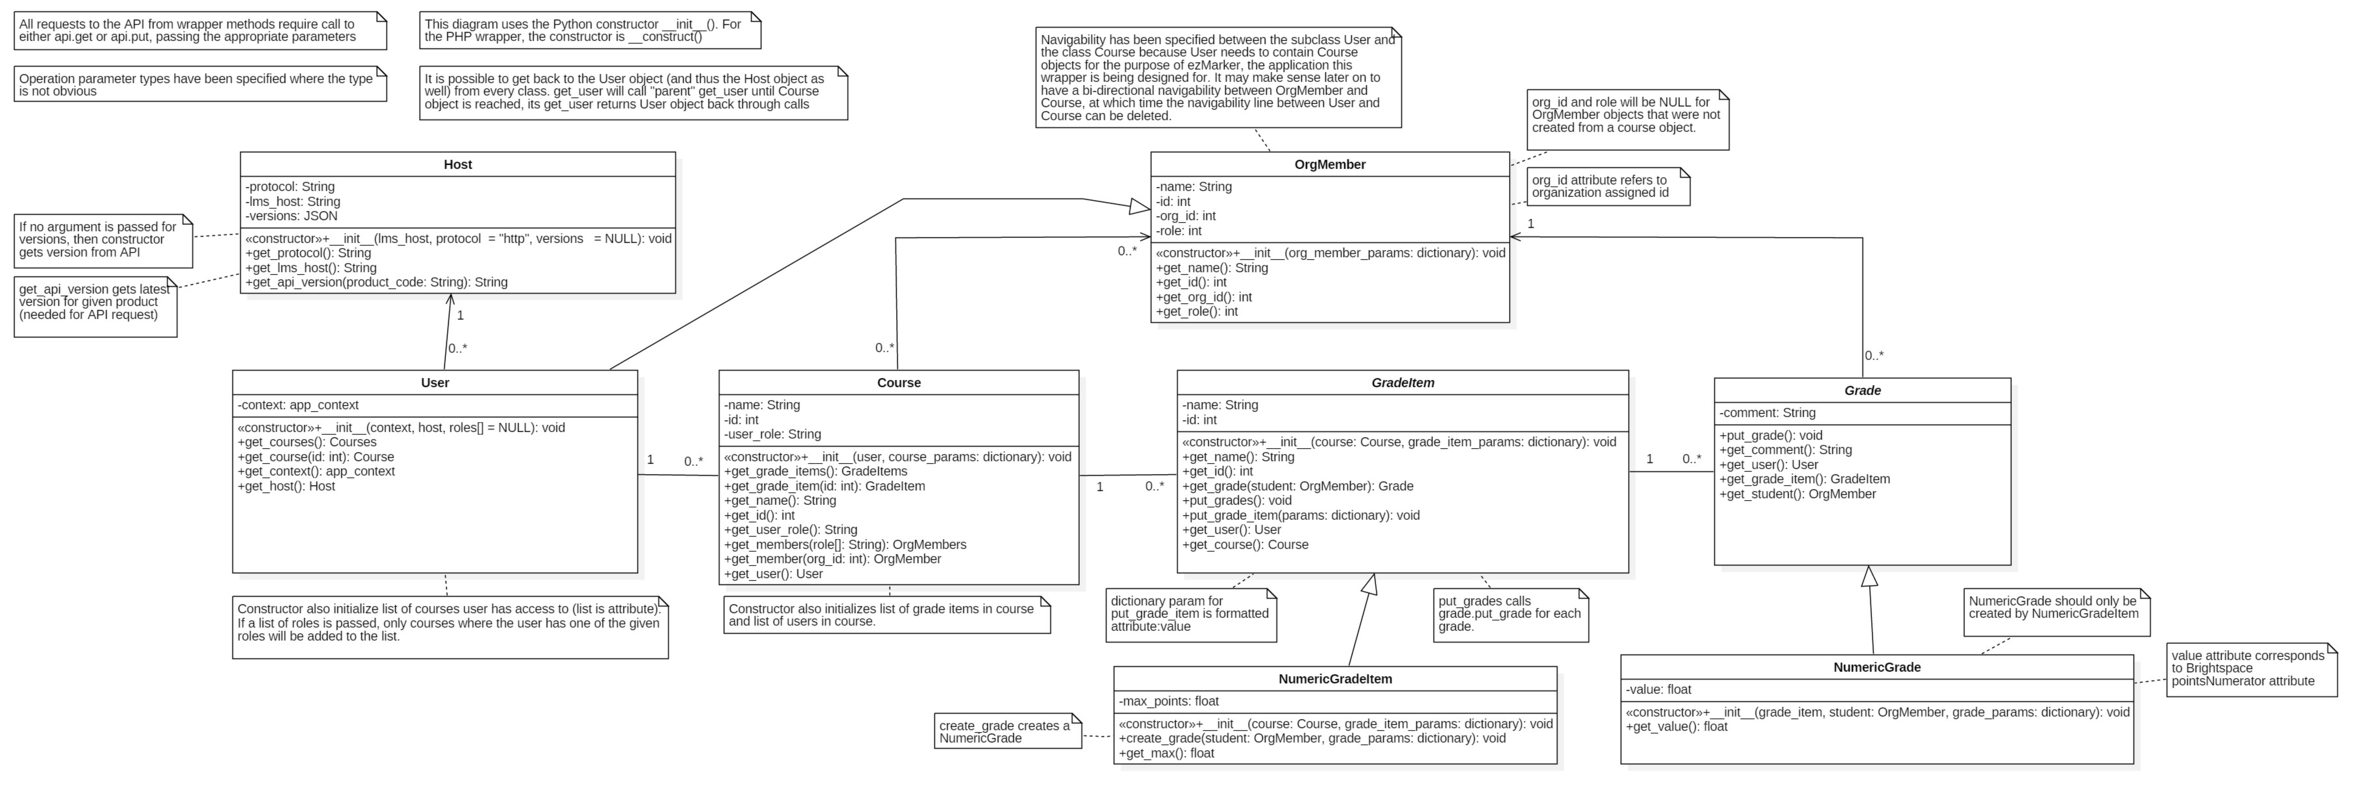
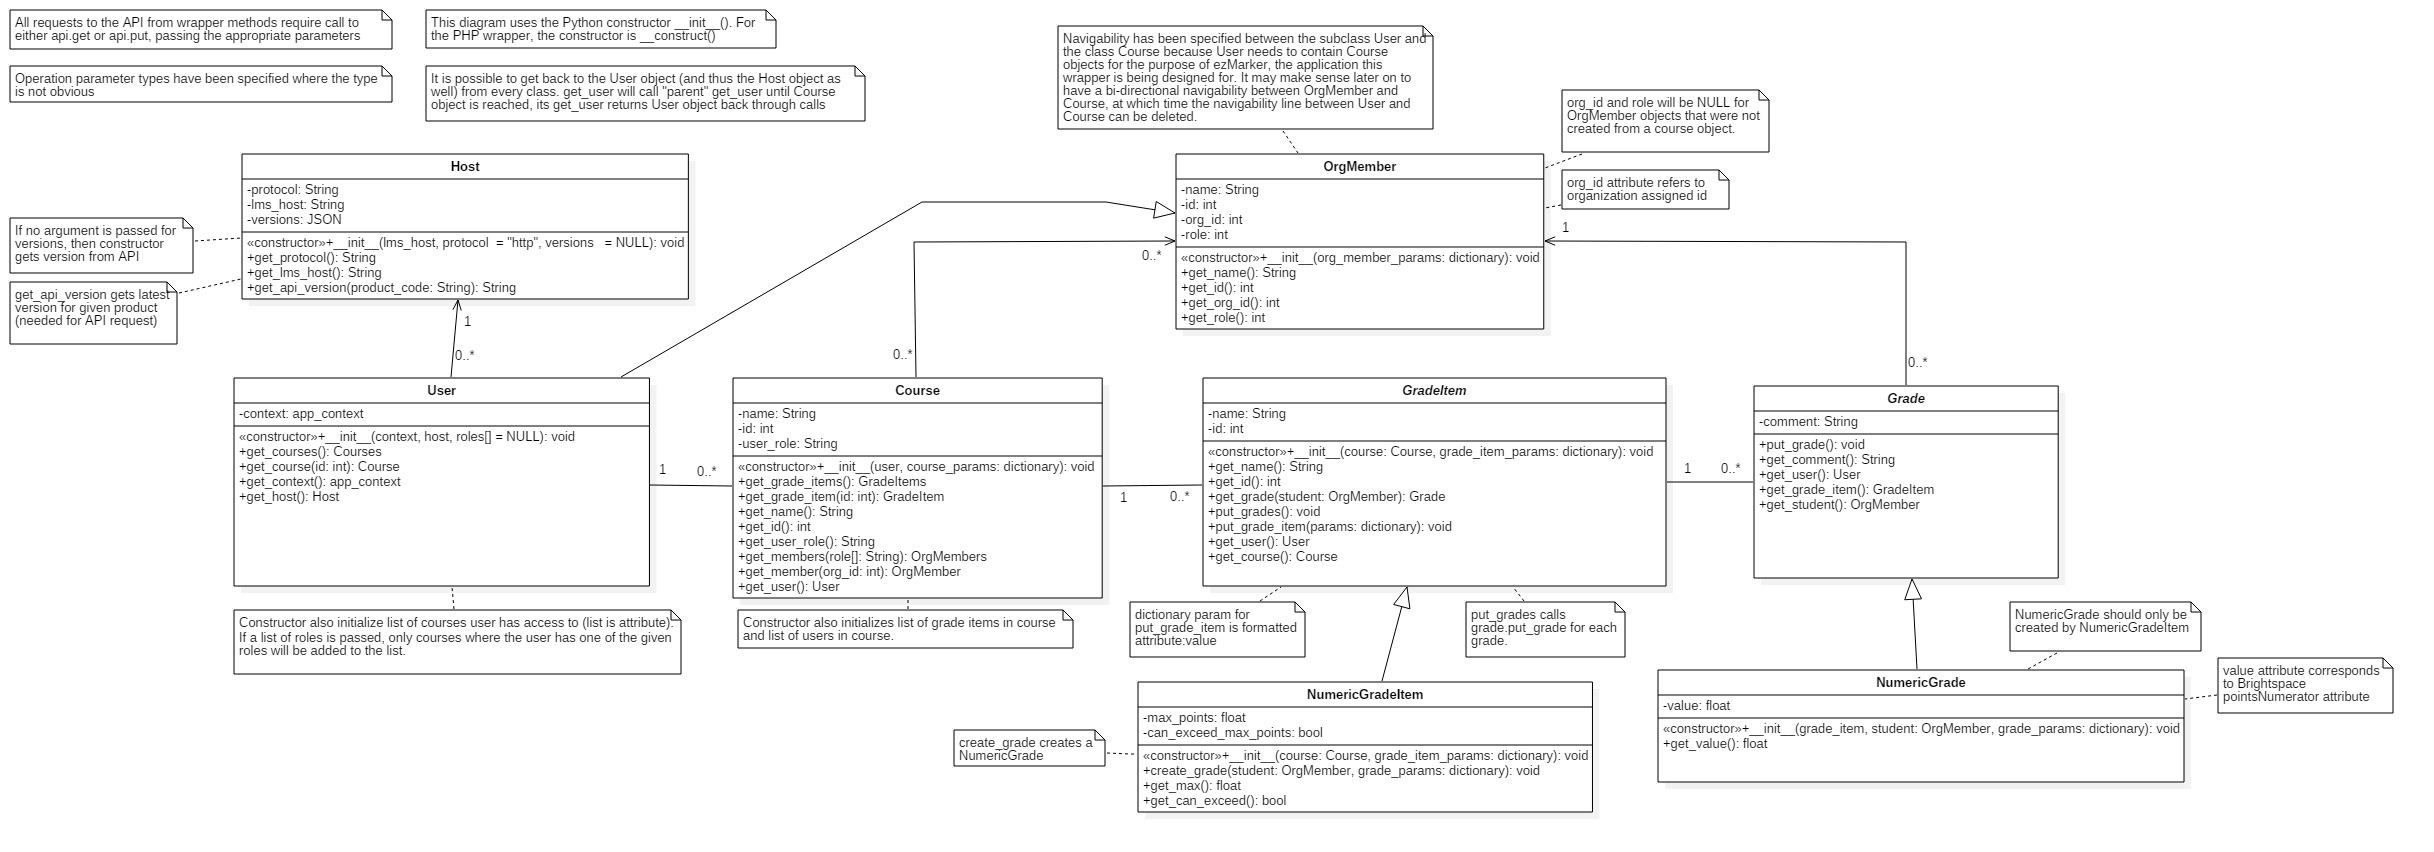
add can_exceed_max_points attribute to NumericGradeItem. Added detail about error handling to Design, removed HTTP codes section, fixed typos

diff --git a/python/templates/design.html b/python/templates/design.html
@@ -78,7 +78,7 @@
             <td>Accordion</td>
             <td>After clicking the course, it shows the available grade items to be modified by the user</td>
         </tr>
-    
+
         <tr>
             <td>Grade Item</td>
             <td>Hyperlink</td>
@@ -89,7 +89,7 @@
             <td>Hyperlink</td>
             <td>Shows pop up window of how to use ezMarker</td>
         </tr>
-		<tr>
+        <tr>
             <td>Logout</td>
             <td>Button</td>
             <td>Redirects to Logout screen</td>
@@ -112,39 +112,39 @@
             <th align="left">Type</th>
             <th align="left">Description</th>
         </tr>
-		<tr>
+        <tr>
             <td>Comment Field</td>
             <td>Text Field</td>
             <td>Allows user to manually input a student's feedback</td>
         </tr>
-		<tr>
+        <tr>
             <td>Choose File Button</td>
             <td>Button</td>
             <td>File dialog opens, allowing user to choose a <a href="http://ezmarker.herokuapp.com/documentation/requirements#1.3%20Definitions">Grade File</a></td>
         </tr>
-		<tr>
+        <tr>
             <td>Delete Button (X)</td>
             <td>Button</td>
             <td>Deletes the student entry it refers to</td>
         </tr>
-		<tr>
+        <tr>
             <td>Grade Field</td>
             <td>Text Field</td>
             <td>Allows user to manually input a student's grade</td>
         </tr>
-		<tr>
+        <tr>
             <td>Search Input Field</td>
             <td>Text Field</td>
             <td>
                 Dynamic search that changes its dropdown list of candidates everytime user types. Searches by student name when user enters a letter first, otherwise searches by student ID. Users can only search students that are enrolled in the course
             </td>
-         </tr>
-		 <tr>
+        </tr>
+        <tr>
             <td>Select-all Check Box</td>
             <td>Check Box</td>
             <td>Populates the page with manual input sections for every student in that course</td>
-         </tr>
-		 <tr>
+        </tr>
+        <tr>
             <td>Update Maximum Button</td>
             <td>Button</td>
             <td>Updates grade item maximum value</a>
@@ -193,12 +193,12 @@
             <td>Button</td>
             <td>Closes pop-up window</td>
         </tr>
-		<tr>
+        <tr>
             <td>Comment Field</td>
             <td>Text Field</td>
             <td>Allows user to manually input a student's feedback</td>
         </tr>
-		<tr>
+        <tr>
             <td>Grade Field</td>
             <td>Text Field</td>
             <td>Allows user to manually input a student's grade</td>
@@ -219,7 +219,11 @@
             <td>Allows user to enter a numeric value for updating the maximum value</td>
         </tr>
     </table>
-    <h3>Report Page(JSON grades, JSON grade_error)</h3>
+
+    <h3>Parsing Error Pop-up(Parsing Error JSON)</h3>
+    <p>Appears if there are problems with the file the user uploaded. User is only notified about errors, there is no functionality for correcting errors. User cannot set grades using a file with any errors</p>
+
+    <h3>Report Page(Grades JSON, Grade Error JSON)</h3>
 
     <p>Reports which students' grades that are set successfully and not successfully</p>
 
@@ -247,7 +251,7 @@
         <li>Redirects user to Brightspace login page</li>
         <li>Creates user object</li>
         <li>Sorts course list in ascending order by course name</li>
-        <li>Renders the Courses page and passes JSON with student information</li>
+        <li>Renders the Courses page and passes Students JSON</li>
     </ol>
 
     <h4>logout()</h4>
@@ -262,18 +266,21 @@
         <li>If valid, grade item total is updated</li>
     </ol>
 
-    <h4>parse_file(File file)</h4>
+    <h4>parse_file()</h4>
     <ol>
-        <li>Parses uploaded file</li>
-        <li>Creates and returns JSON with student and grade information</li>
+        <li>If line is bad, add line number and line data as "number: data" string to Parsing Error JSON</li>
+        <li>If all lines bad, have Parsing Error JSON contain only a message about the bad file</li>
+        <li>If all lines ok, create Grades JSON</li>
+        <li>Return appropriate JSON</li>
     </ol>
 
     <h4>error_checking(Grades JSON, grade_item_id)</h4>
     <ol>
         <li>Checks grade values in JSON</li>
-        <li>If grade value > max grade, add item to JSON warning list specifying grade, student, and msg</li>
-        <li>If grade value &lt 0, add item to JSON error list specifying grade, student, and msg</li>
-        <li>If student not in course, add item to JSON error list specifying grade, student, and msg</li>
+        <li>If grade value > max grade and grades are able to exceed max grade for grade item, add item to Grade Error JSON as warning</li>
+        <li>If grade value > max grade and grades are not allowed to exceed max grade, add item to Grade Error JSON as error</li>
+        <li>If grade value &lt 0, add item to Grade Error JSON as error</li>
+        <li>If student not in course, add item to Grade Error JSON as only-display-message-error</li>
         <li>Return JSON if applicable</li>
     </ol>
 
@@ -290,34 +297,23 @@
     <p>The design of the JSON objects that ezMarker creates.</p>
 
     <h4>Grades JSON (used in <i>parse_grade</i> function and <i>set_grades</i> controller, <i>Upload</i> page)</h4>
-    <p> { grades: [ { org_member_id: int, value: float, comment: String } ] }</p>
+    <p>{ grades: [ { org_member_id: int, value: float, comment: String } ] }</p>
 
     <h4>Grade Error JSON (used in <i>error_checking</i> function and <i>set_grades</i> controller, <i>Upload</i> page)</h4>
     <p>{ errors: [ { type: int, org_member_id: int, msg: String } ] }</p>
     <b>Note:</b>
     <ul>
-        <li><b>type</b> describes if it a warning (0) or an error (1)</li>
+        <li><b>type</b> describes if it a warning (0), error (1), or only-display-message-error (2)</li>
         <li>
             When this JSON is returned to the frontend from the controller, it is the frontend's responsibility to display 'msg' above the appropriate input for the student with 'org_member_id'. The error messages are for used to inform the user of parsing errors. They are prompted to fix these errors and re-submit their grades to upload.
         </li>
     </ul>
 
-<h4>Student JSON (used in <i>login</i> controller and <i>Courses</i> page)</h4>
-<p>{ students: [ {org_member_id: int, name: String} ] }</p>
+    <h4>Parsing Error JSON (used in <i>parse_file</i> function and <i>Parsing Error</i> pop-up)</h4>
+    <p>{ errors: [ { msg: String } ] }</p>
 
-    <h3>HTTP Status Codes</h3>
-
-    <p>
-		All functions need to return one of the following status codes. Refer <a href="https://en.wikipedia.org/wiki/List_of_HTTP_status_codes">here</a> for a reference to HTTP status codes.
-	</p>
-
-    <h4>Sucess Codes</h4>
-    <p>200 - OK</p>
-
-    <h4>Error Codes</h4>
-    <p>400 - Bad Request</p>
-    <p>403 - Forbidden</p>
-    <p>404 - Not Found</p>
+    <h4>Student JSON (used in <i>login</i> controller and <i>Courses</i> page)</h4>
+    <p>{ students: [ {org_member_id: int, name: String} ] }</p>
 
     <h3>Grade File Format</h3>
     <p>The grade file is a csv with the format <b>student_name</b>, <b>brightspace_id</b>, <b>grade</b>, <b>comment</b></p>
@@ -405,8 +401,10 @@
     <p>- Corrected descriptions of interaction between back-end and UI</p>
     <p>- Fixed image sizes</p>
     <p>- Fixed Program Flow diagram</p>
-	<p>- Made tables alphabetical order</p>
-	<P>- Added HTTP status code reference</P>
+    <p>- Made tables alphabetical order</p>
+    <p>- Removed section on HTTP status codes</p>
+    <p>- Further descriped error handling in Detailed Design</p>
+    <p>- Added Parsing Error Pop-up sections</p>
     <p>Authors: Sarah Johnston, Xiang Ke, Weibin Ma, Troy Nechanicky</p>
     <p>SQA: </p>
 </body>

diff --git a/python/templates/design_wrapper.html b/python/templates/design_wrapper.html
@@ -105,6 +105,8 @@
     <p>- Removed mention of specific requests from API diagram</p>
     <p>- Grouped API reference section by class</p>
     <p>- Replaced type JSON with type dictionary</p>
+    <p>- Added can_exceed_max_points attribute to NumericGradeItem</p>
+    <p>- Added constructor to GradeItem</p>
     <p>Authors: Sumeet Jhand, Troy Nechanicky, Harjodh Singh</p>
     <p>SQA: Yi Ling Pang</p>
 </body>
